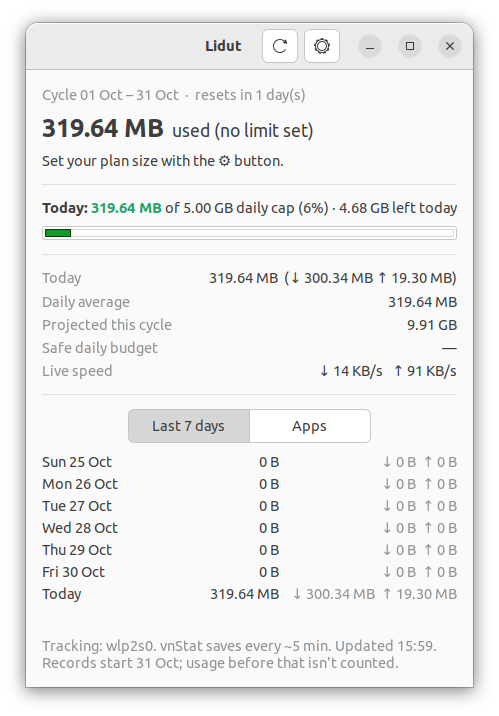
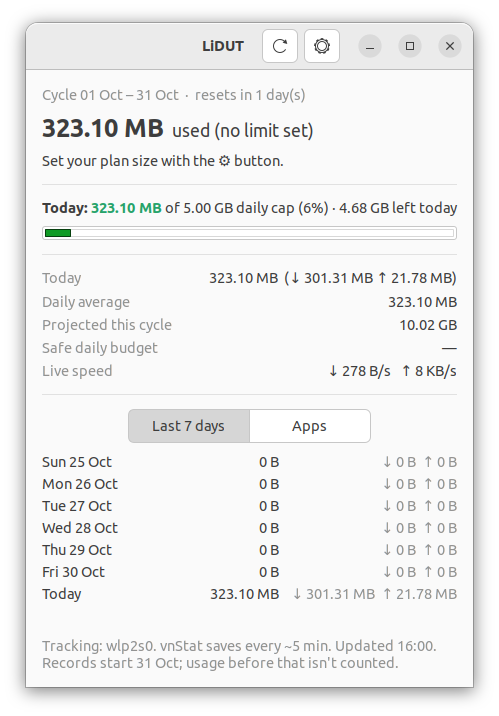
Display name: LiDUT

diff --git a/README.md b/README.md
@@ -1,15 +1,15 @@
-# Lidut — Linux Data Usage Tracker
+# LiDUT — Linux Data Usage Tracker
 
 **Know where your data goes before your bundle runs out.**
 
-Lidut (**Li**nux **D**ata **U**sage **T**racker) is a small Linux desktop app for people on limited internet plans: mobile data
+LiDUT (**Li**nux **D**ata **U**sage **T**racker) is a small Linux desktop app for people on limited internet plans: mobile data
 bundles, capped home broadband, or tethering from your phone. It sits in your top bar,
 shows how much you've used today against your own cap, warns you before you run out, and
 (optionally) shows which apps used the data.
 
 <p align="center">
-  <img src="docs/screenshot.png" alt="Lidut main window" width="420"><br>
-  <img src="docs/topbar.png" alt="Lidut in the GNOME top bar" width="320">
+  <img src="docs/screenshot.png" alt="LiDUT main window" width="420"><br>
+  <img src="docs/topbar.png" alt="LiDUT in the GNOME top bar" width="320">
 </p>
 
 ## Features
@@ -46,7 +46,7 @@ cd lidut
 ./install.sh
 ```
 
-Lidut starts in your top bar right away, appears in your app menu, and starts
+LiDUT starts in your top bar right away, appears in your app menu, and starts
 automatically every time you log in.
 
 > vnStat only counts from the moment it's installed, so the first day will show only part of
@@ -65,14 +65,14 @@ This installs [NetHogs](https://github.com/raboof/nethogs) and a small backgroun
 working out which program owns network traffic needs admin rights. Open the **Apps** tab in
 the window to see the results.
 
-## Using Lidut
+## Using LiDUT
 
 | What you want | How |
 |---|---|
-| Open the window | Click the top-bar label → **Open Lidut** (or middle-click it), or launch Lidut from the app menu |
+| Open the window | Click the top-bar label → **Open LiDUT** (or middle-click it), or launch LiDUT from the app menu |
 | Set your daily cap or monthly plan | Click ⚙ in the window |
 | See which apps used data | **Apps** tab → choose *Today* or *This cycle* |
-| Hide the window | Close it; Lidut keeps running in the top bar |
+| Hide the window | Close it; LiDUT keeps running in the top bar |
 | Quit completely | Top-bar menu → **Quit** |
 
 ### Settings
@@ -90,12 +90,12 @@ Settings are saved in `~/.config/lidut/config.json`.
 
 ```
  network card ──► vnStat daemon ──► vnstat --json ──┐
-                                                    ├──► Lidut (GTK window + top-bar icon)
+                                                    ├──► LiDUT (GTK window + top-bar icon)
  network card ──► NetHogs ──► lidut-collector ────┘
                   (optional)   /var/lib/lidut/apps.json
 ```
 
-- **vnStat** records totals per interface. Lidut reads them every minute and adds up the
+- **vnStat** records totals per interface. LiDUT reads them every minute and adds up the
   real (physical) interfaces.
 - **lidut-collector** (optional) runs NetHogs in trace mode, turns its per-process
   counters into per-app daily totals, and keeps 62 days of history.
